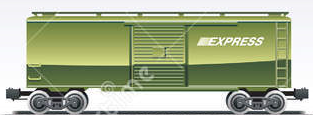
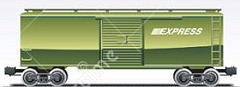
Changed images size. Added train class.

diff --git a/Classes/HelloWorldScene.cpp b/Classes/HelloWorldScene.cpp
@@ -2,7 +2,6 @@
 #include "MainMenuScene.h"
 #include "CSequenceOfMine.h"
 #include "Point.h"
-#include "AirPLane.h"
 #include "Carriage.h"
 
 USING_NS_CC;
@@ -31,17 +30,37 @@ bool HelloWorld::init()
 	auto backGround = CBackGround::Create(CONSTANTS::SEA_SPRITE_FILENAME);
 	this->addChild(backGround, 0);
 
-	auto car1 = CCarriage::Create(CONSTANTS::CARRIAGE1_SPRITE_FILENAME);
-	car1->setPosition(Vec2(80, 260));
-	this->addChild(car1, 1);
+	auto carriage1 = CCarriage::Create(CONSTANTS::CARRIAGE1_SPRITE_FILENAME);
+	carriage1->setPosition(Vec2(60, 280));
+	this->addChild(carriage1, 1);
 
-	auto car2 = CCarriage::Create(CONSTANTS::CARRIAGE2_SPRITE_FILENAME);
-	car2->setPosition(Vec2(240, 260));
-	this->addChild(car2, 1);
+	auto carriage2 = CCarriage::Create(CONSTANTS::CARRIAGE2_SPRITE_FILENAME);
+	carriage2->setPosition(Vec2(180, 280));
+	this->addChild(carriage2, 1);
 
-	auto car3 = CCarriage::Create(CONSTANTS::CARRIAGE3_SPRITE_FILENAME);
-	car3->setPosition(Vec2(400, 260));
-	this->addChild(car3, 1);
+	auto carriage3 = CCarriage::Create(CONSTANTS::CARRIAGE3_SPRITE_FILENAME);
+	carriage3->setPosition(Vec2(300, 280));
+	this->addChild(carriage3, 1);
+
+	auto carriage4 = CCarriage::Create(CONSTANTS::CARRIAGE4_SPRITE_FILENAME);
+	carriage4->setPosition(Vec2(420, 280));
+	this->addChild(carriage4, 1);
+
+	auto carriage5 = CCarriage::Create(CONSTANTS::CARRIAGE5_SPRITE_FILENAME);
+	carriage5->setPosition(Vec2(60, 200));
+	this->addChild(carriage5, 1);
+
+	auto carriage6 = CCarriage::Create(CONSTANTS::CARRIAGE6_SPRITE_FILENAME);
+	carriage6->setPosition(Vec2(180, 200));
+	this->addChild(carriage6, 1);
+
+	auto carriage7 = CCarriage::Create(CONSTANTS::CARRIAGE7_SPRITE_FILENAME);
+	carriage7->setPosition(Vec2(300, 200));
+	this->addChild(carriage7, 1);
+
+	auto carriage8 = CCarriage::Create(CONSTANTS::CARRIAGE8_SPRITE_FILENAME);
+	carriage8->setPosition(Vec2(420, 200));
+	this->addChild(carriage8, 1);
 
 	/*auto sequence = new CSequenceOfMine();
 	auto seq = sequence->Create(3);

diff --git a/proj.win32/Train.cpp b/proj.win32/Train.cpp
@@ -1,0 +1,84 @@
+#include "Train.h"
+#include "cocos2d.h"
+#include "string"
+
+USING_NS_CC;
+
+using namespace std;
+using namespace cocos2d;
+
+CTrain::CTrain()
+{
+}
+
+CTrain::~CTrain()
+{
+}
+
+CTrain* CTrain::Create(const string &fileName)
+{
+	auto enemySprite = new (nothrow)CTrain();
+	if (enemySprite && enemySprite->initWithFile(fileName))
+	{
+		if (!enemySprite->Init(enemySprite))
+		{
+			CC_SAFE_DELETE(enemySprite);
+			return nullptr;
+		}
+		else
+		{
+			enemySprite->autorelease();
+			return enemySprite;
+		}
+	}
+	else
+	{
+		CC_SAFE_DELETE(enemySprite);
+		return nullptr;
+	}
+}
+
+bool CTrain::Init(Sprite *sprite)
+{
+	if (sprite)
+	{
+		SetContactListener();
+		return true;
+	}
+	else
+	{
+		return false;
+	}
+}
+
+void CTrain::SetContactListener()
+{
+	auto listener = EventListenerTouchOneByOne::create();
+	listener->setSwallowTouches(true);
+	listener->onTouchBegan = [&](Touch* touch, Event* event){
+		auto target = static_cast<Sprite*>(event->getCurrentTarget());
+		Point location = target->convertToNodeSpace(touch->getLocation());
+		Size s = target->getContentSize();
+		Rect rect = Rect(0, 0, s.width, s.height);
+
+		if (rect.containsPoint(location))
+		{
+			return true;
+		}
+
+		return false;
+	};
+	listener->onTouchEnded = [=](Touch* touch, Event* event){
+		TouchEvent(touch);
+	};
+	Director::getInstance()->getEventDispatcher()->addEventListenerWithSceneGraphPriority(listener, this);
+}
+
+void CTrain::TouchEvent(Touch* touch)
+{
+	/*this->setVisible(false);
+	auto newSprite = CCarriage::Create(m_spriteFileName);
+	auto scene = dynamic_cast<HelloWorld*>(this->getParent());
+	newSprite->setPosition(Vec2(400, 50));
+	scene->addChild(newSprite, 1);*/
+}

diff --git a/Classes/CONSTANTS.h b/Classes/CONSTANTS.h
@@ -31,7 +31,6 @@ namespace CONSTANTS
 	static const std::string CARRIAGE6_SPRITE_FILENAME = "carriage6.png";
 	static const std::string CARRIAGE7_SPRITE_FILENAME = "carriage7.png";
 	static const std::string CARRIAGE8_SPRITE_FILENAME = "carriage8.png";
-	static const std::string CARRIAGE9_SPRITE_FILENAME = "carriage9.png";
 
 	namespace BASIC_POINTS
 	{

diff --git a/proj.win32/Train.h b/proj.win32/Train.h
@@ -1,0 +1,21 @@
+#pragma once
+#include "cocos2d.h"
+#include "string"
+
+using namespace std;
+using namespace cocos2d;
+
+class CTrain : public Sprite
+{
+public:
+	CTrain();
+	~CTrain();
+
+	static CTrain* Create(const string &fileName);
+	bool Init(Sprite *sprite);
+	void SetContactListener();
+
+private:
+	void TouchEvent(Touch* touch);
+};
+
